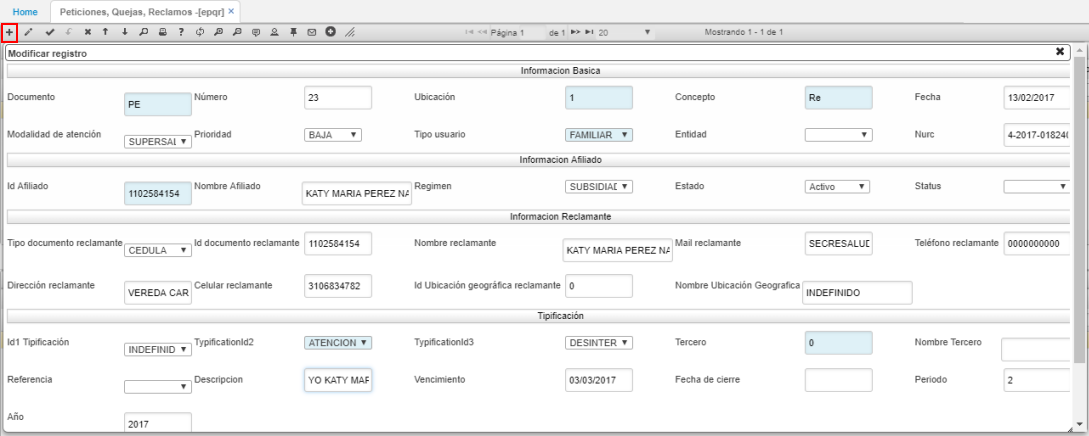
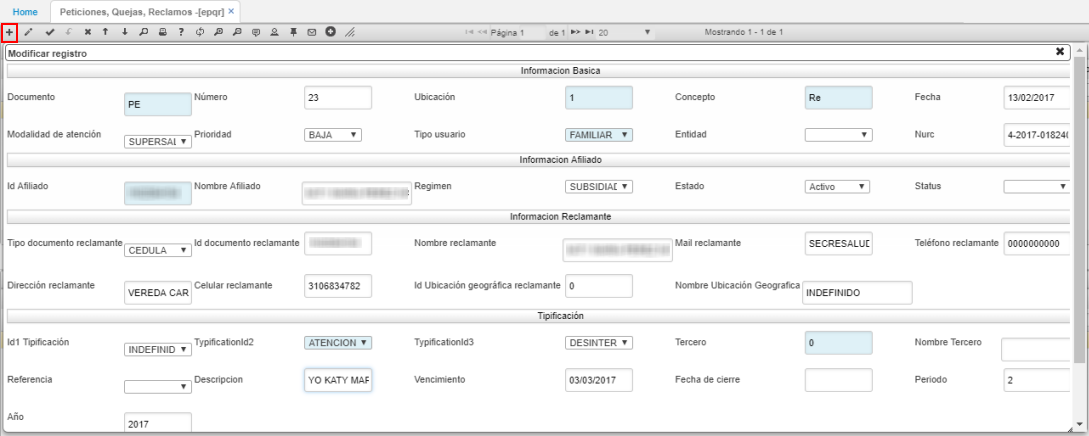
epqr

diff --git a/Operacion/is/salud/esiau/movsiau/epqr.md b/Operacion/is/salud/esiau/movsiau/epqr.md
@@ -24,22 +24,68 @@ _Información básica_
 
 **Fecha:** ingresar la fecha en la cual se registra el documento.  
 **Modalidad de atención:** seleccionar la modalidad por la cual se reportó el caso.  
-**Prioridad:**
-**Tipo usuario:**
-**Entidad:**
-**Nurc:**
-**Id Afiliado:**
-**Régimen:**
-**Estado:**
-**Status:**
-****
-****
-****
-****
-****
-****
-****
-****
-****
-****
-****
+
+![](epqr1.png)
+
+Las modalidades de atención pueden ser parametrizadas en la aplicación [**ECRC - Características**](http://docs.oasiscom.com/Operacion/is/salud/ebasica/ecrc).  
+
+![](epqr2.png)
+
+**Prioridad:** seleccionar la prioridad del caso. _Baja, Alta o Crítica_.  
+**Tipo usuario:** seleccionar el tipo de usuario que reporta el caso. Las opciones pueden ser parametrizadas en la aplicación [**ECRC - Características**](http://docs.oasiscom.com/Operacion/is/salud/ebasica/ecrc).  
+
+![](epqr3.png)
+
+**Nurc:** ingresar el número de radicado del caso reportado.  
+
+_Información afiliado_
+
+**Id Afiliado:** ingresar el número de identificación del afiliado.  
+**Régimen:** seleccionar el régimen si es subsidiado o contributivo.  
+**Estado:** al registrar el caso, el documento quedará en estado activo, cambiará de estado una vez se procese el documento.  
+**Status:** seleccionar el status del caso. (Pendiente, gestión, escalada, anulada, solución, notificada, cierre).  
+
+_Información reclamante_
+
+Estos datos son de vital importancia, dado que será la base para que el gestor de PQRS se pueda comunicar con la persona reclamante.  
+
+**Tipo documento reclamante:** seleccionar el tipo de documento de la persona que presenta el caso, esta puede ser diferente al afiliado ingresado anteriormente.  
+**Id documento reclamante:** ingresar el número de identificación de la persona que presenta el caso.  
+**Nombre del reclamante:** ingresar el nombre completo de la persona que presenta el caso.  
+**Mail del reclamante:** ingresar el correo electrónico de la persona que presenta el caso.  
+**Teléfono del reclamante:** ingresar el número telefónico de la persona que presenta el caso.  
+**Dirección del reclamante:** ingresar la dirección de residencia de la persona que presenta el caso.  
+**Celular reclamante:** ingresar el número celular de la persona que presenta el caso.  
+
+_Tipificación_
+
+**Tipificación 1:** seleccionar el tipo de entidad con la cual se presentó el caso.  
+
+![](epqr4.png)
+
+**Tipificación 2:** seleccionar la categoría o departamento en la cual se presentó el caso.  
+
+![](epqr5.png)
+
+**Tipificación 3:** seleccionar la causa que llevó al reporte del caso.  
+
+![](epqr6.png)
+
+**Descripción:** Hacer la descripción del caso que se reporta.  
+**Vencimiento:** ingresar la fecha de vencimiento del caso reportado.  
+
+Ingresada la información, guardamos el registro y diligenciamos el detalle.  
+
+![](epqr8.png)
+
+Al guardar el documento en el maestro, el sistema traerá automáticamente el primer renglón del detalle que será el _REGISTRO_. En el detalle se registrará la gestión realizada al caso reportado.  
+
+![](epqr7.png)
+
+Al ingresar un nuevo renglón, se deberá seleccionar si el caso se encuentra en trámite o en cierre, la acción que se deberá realizar para solventar el caso, la fecha en la cual se deberá realizar, hacer una descripción de la actividad, ingresar el número de identificación del funcionario al cual se asigna la actividad y el número de identificación del funcionario que registra la actividad.  
+
+![](epqr9.png)
+
+Finalmente, guardamos el registro. Cuando el caso reportado se haya solventado, se debe procesar desde el maestro el documento con el fin de cerrarlo.  
+
+
